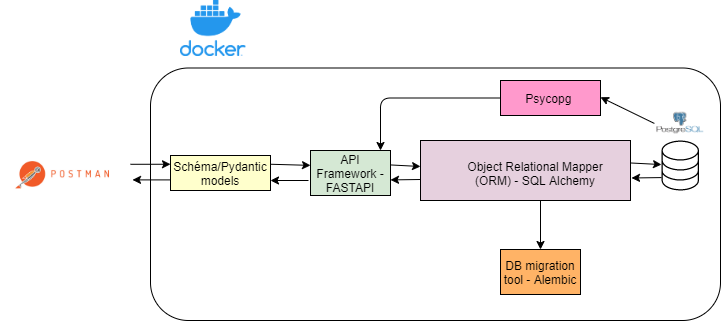
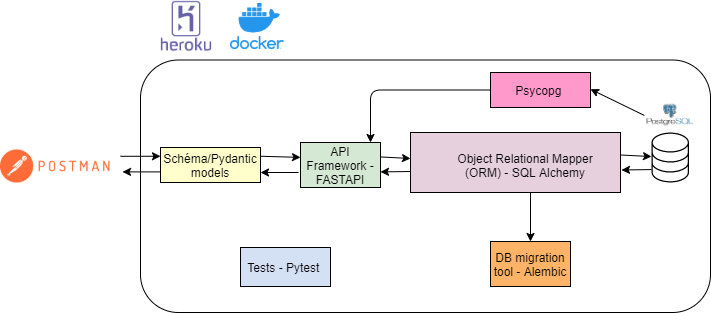
heroku

diff --git a/kindle-note-caster/kindle-note-caster-api/README.md b/kindle-note-caster/kindle-note-caster-api/README.md
@@ -79,6 +79,28 @@ lancer la commande depuis le dossier \kindle-note-caster\kindle-note-caster-api\
 
 ou mieux aller sur postman
 
+# AuthN management
+
+### gestion de l'auth avec jwt/ Oauth2
+
+`pip install python-jose[cryptography]`
+
+commande pour générer arbitrairement la clé de l'algorithme, à mettre dans le .env:
+
+`openssl rand -hex 32`
+
+https://fastapi.tiangolo.com/tutorial/security/oauth2-jwt/
+
+pour décoder les jwt:
+
+https://jwt.io/
+
+### passlib
+
+Passlib is a password hashing library for Python 2 & 3, which provides cross-platform implementations of over 30 password hashing algorithms, as well as a framework for managing existing password hashes
+
+`pip install passlib`
+
 # Alembic ( db migration tool)
 
 utile quand tu migres d'une db à une autre (de local à ubuntu VM puis à heroku)
@@ -107,38 +129,30 @@ pour changer de version à celle au desus / en dessous:
 `alembic downgrade down_revision_id` ou `alembic downgrade -1` et on peut changer le 1 par n'importe quel nb
 
 
-# gestion de l'auth avec jwt/ Oauth2
-
-`pip install python-jose[cryptography]`
-
-commande pour générer arbitrairement la clé de l'algorithme, à mettre dans le .env:
-
-`openssl rand -hex 32`
-
-https://fastapi.tiangolo.com/tutorial/security/oauth2-jwt/
-
-pour décoder les jwt:
-
-https://jwt.io/
 
 # errors:
 
 Error loading ASGI app. Could not import module "main".  => aller dans le dossier kindle
-
-# passlib
-
-Passlib is a password hashing library for Python 2 & 3, which provides cross-platform implementations of over 30 password hashing algorithms, as well as a framework for managing existing password hashes
-
-`pip install passlib`
 
 # ?
 
 python-multipart is an Apache2 licensed streaming multipart parser for Python
 `pip install python-multipart`
 
+# data processing
+
 `pip install python-docx`
 
 `pip install pandas` voir les versions au plus clair: 1.2.4 ou 1.4.3?
+
+exemple pour la config du file_mapper.json:
+
+```json
+{
+"marketing": "Lecture/Marketing.docx",
+"sales": "Lecture/Sales.docx"
+}
+```
 
 # documentation
 
@@ -146,7 +160,18 @@ disponible à l'adresse: http://127.0.0.1:8000/docs
 
 # deploiement
 
-### Docker
+### Heroku ( platforme de déploiement de SFDC)
+
+installer en local heroku https://devcenter.heroku.com/articles/getting-started-with-python#set-up
+
+`heroku --version` pour savoir si bien installé
+
+problème car le cmd ( invité de commande) reconnait bien mais pas le terminal intelliji ( microsoft powershell)
+variables d'environment mal configurées
+
+ 
+
+### Docker ( on ne déploie plus une VM mais un container)
 
 lancer docker desktop et
 
@@ -167,19 +192,12 @@ lancer docker desktop et
 et après on accède via fast api comme d'habitude, il y aura une redirection
 
 
-# exemple pour la config du file_mapper.json
-```json
-{
-"marketing": "Lecture/Marketing.docx",
-"sales": "Lecture/Sales.docx"
-}
-```
 
 # TO DO:
 
 ## MUST HAVE
 
-- Deploy to heroku (section 4)
+- Deploy app to heroku (section 13)
 
 - Automatic tests with pytests ( section 16) 
 
